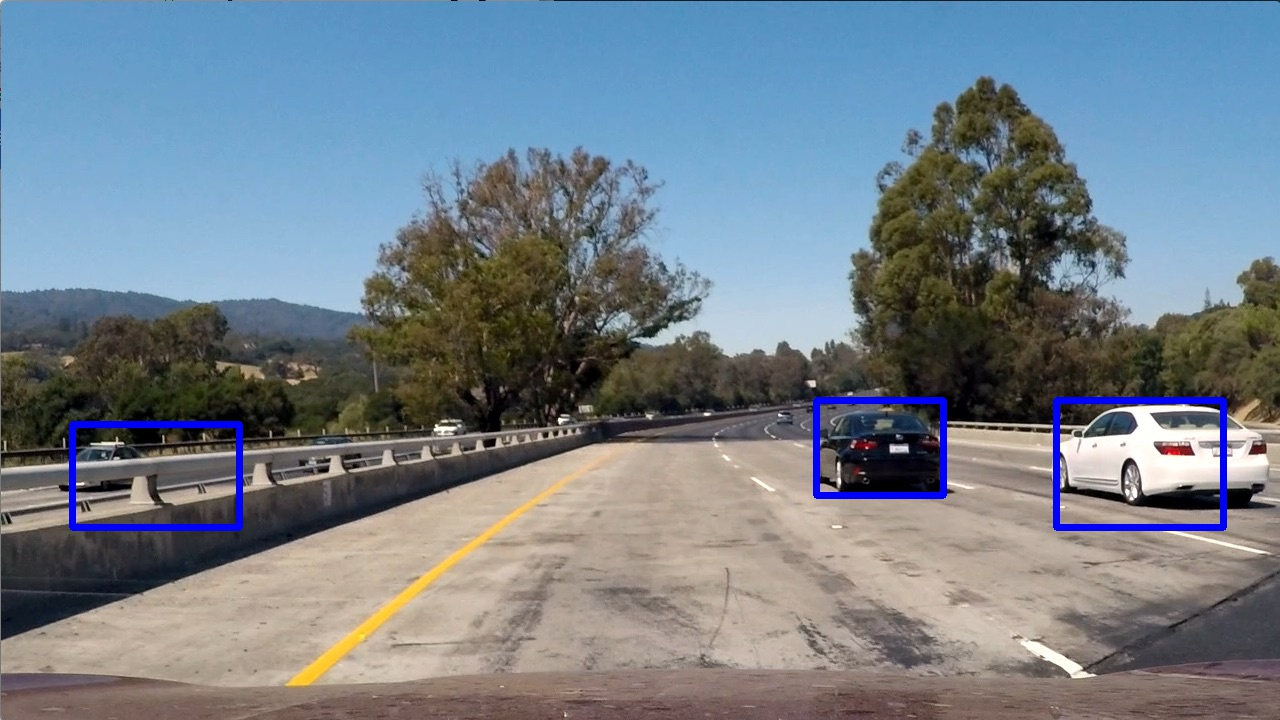
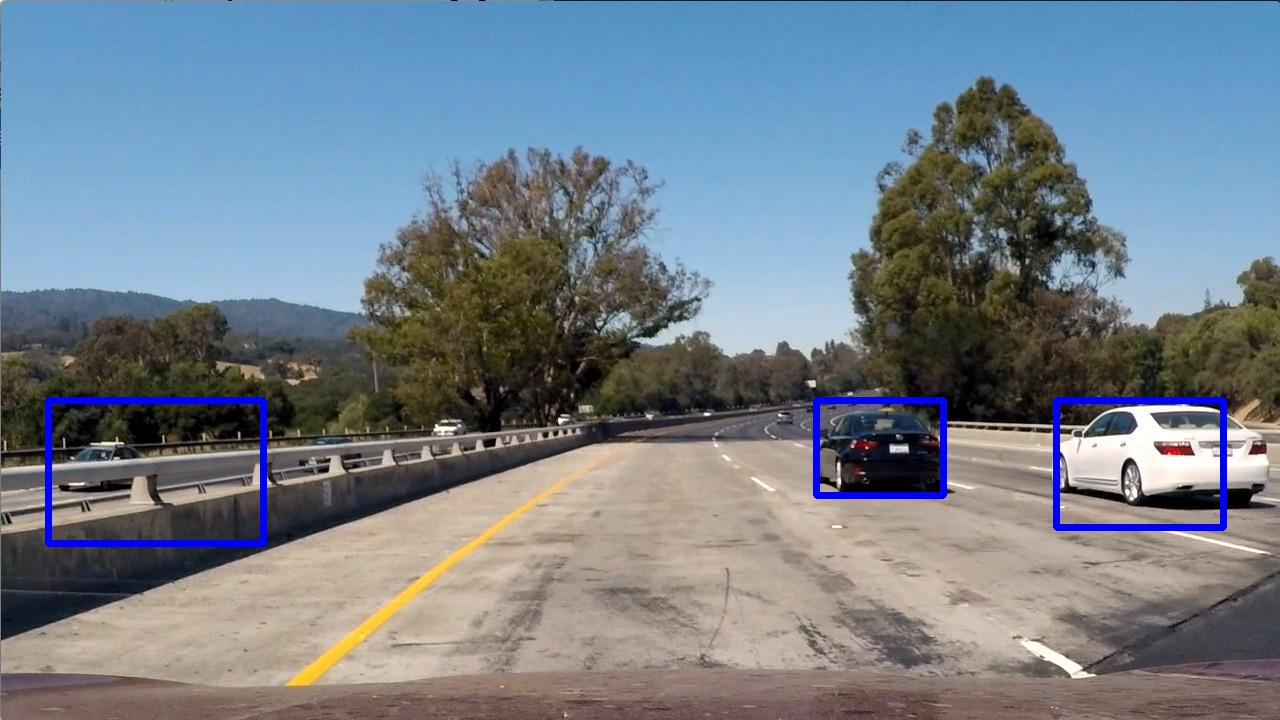
generating images for README

Changed region(s): [[0.0312, 0.55, 0.2188, 0.7639]]

diff --git a/processing_utils.py b/processing_utils.py
@@ -4,7 +4,7 @@ import numpy as np
 
 from scipy.ndimage.measurements import label
 from feature_extraction_utils import get_hog_features, bin_spatial, color_hist, slide_window, add_heat, apply_threshold, \
-    draw_labeled_bboxes
+    draw_labeled_bboxes, draw_boxes
 
 _windows = []
 
@@ -75,20 +75,30 @@ def find_cars(img, ystart, ystop, scale, svc, X_scaler, orient, pix_per_cell, ce
 
     return rectangles
 
-def find_cars_in_image(img, ystart, ystop, scale, svc, X_scaler, orient, pix_per_cell, cell_per_block, spatial_size, hist_bins, color_space='YCrCb'):
+
+def find_cars_in_image(img, ystart, ystop, scale, svc, X_scaler, orient, pix_per_cell, cell_per_block, spatial_size, hist_bins, color_space='YCrCb', output_file=None):
+    draw_img = np.copy(img)
     draw_img = np.copy(img)
     hot_windows = []
-    hot_windows.extend(find_cars(img, ystart, ystop, 1, svc, X_scaler, orient, pix_per_cell, cell_per_block, spatial_size, hist_bins, color_space=color_space))
     hot_windows.extend(
-        find_cars(img, ystart, ystop, 1.5, svc, X_scaler, orient, pix_per_cell, cell_per_block, spatial_size, hist_bins,
+        find_cars(img, ystart, ystop, 1, svc, X_scaler, orient, pix_per_cell, cell_per_block, spatial_size, hist_bins,
+                  color_space=color_space))
+    hot_windows.extend(
+        find_cars(img, ystart, ystop, 1.5, svc, X_scaler, orient, pix_per_cell, cell_per_block, spatial_size,
+                  hist_bins,
                   color_space=color_space))
     hot_windows.extend(
         find_cars(img, ystart, ystop, 2, svc, X_scaler, orient, pix_per_cell, cell_per_block, spatial_size, hist_bins,
+                  color_space=color_space))
+    hot_windows.extend(
+        find_cars(img, ystart, ystop, 3, svc, X_scaler, orient, pix_per_cell, cell_per_block, spatial_size, hist_bins,
                   color_space=color_space))
 
     heat = np.zeros_like(img[:, :, 0]).astype(np.float)
     # Add heat to each box in box list
     heat = add_heat(heat, hot_windows)
+
+
 
     # Apply threshold to help remove false positives
     heat = apply_threshold(heat, 3)
@@ -96,9 +106,16 @@ def find_cars_in_image(img, ystart, ystop, scale, svc, X_scaler, orient, pix_per
     # Visualize the heatmap when displaying
     heatmap = np.clip(heat, 0, 255)
 
+
+
     # Find final boxes from heatmap using label function
     labels = label(heatmap)
     draw_image = draw_labeled_bboxes(draw_img, labels)
+
+    if output_file is not None :
+        cv2.imwrite('output_images/' + output_file + '_boxes.jpg', cv2.cvtColor(draw_boxes(img, hot_windows), cv2.COLOR_RGB2BGR))
+        cv2.imwrite('output_images/' + output_file + '_draw.jpg', cv2.cvtColor(draw_image, cv2.COLOR_RGB2BGR))
+
     return draw_image
 
 

diff --git a/pipeline.py b/pipeline.py
@@ -69,13 +69,6 @@ def process_image(image):
     global _heatmap_sum
     draw_img = np.copy(image)
     hot_windows = []
-    # hot_windows.extend(
-    #     find_cars(image, ystart, ystop, 0.5, svc, X_scaler, orient, pix_per_cell, cell_per_block, spatial_size,
-    #               hist_bins,
-    #               color_space=color_space))
-    # hot_windows.extend(
-    #     find_cars(image, ystart, ystop, 0.75, svc, X_scaler, orient, pix_per_cell, cell_per_block, spatial_size, hist_bins,
-    #               color_space=color_space))
     hot_windows.extend(
         find_cars(image, ystart, ystop, 1, svc, X_scaler, orient, pix_per_cell, cell_per_block, spatial_size, hist_bins,
                   color_space=color_space))

diff --git a/car_classifier.py b/car_classifier.py
@@ -134,7 +134,7 @@ if __name__ == "__main__":
 
     for i in range(1,7):
         image = mpimg.imread('test_images/test' + str(i) + '.jpg')
-        image_with_cars = find_cars_in_image(image, 400, 657, 1, model, X_scaler, orient, pix_per_cell, cell_per_block, spatial_size, hist_bins, color_space)
+        image_with_cars = find_cars_in_image(image, 400, 657, 1, model, X_scaler, orient, pix_per_cell, cell_per_block, spatial_size, hist_bins, color_space, output_file="test" + str(i))
         cv2.imwrite('output_images/window_test' + str(i) + '.jpg', cv2.cvtColor(image_with_cars,cv2.COLOR_RGB2BGR))
 
 
